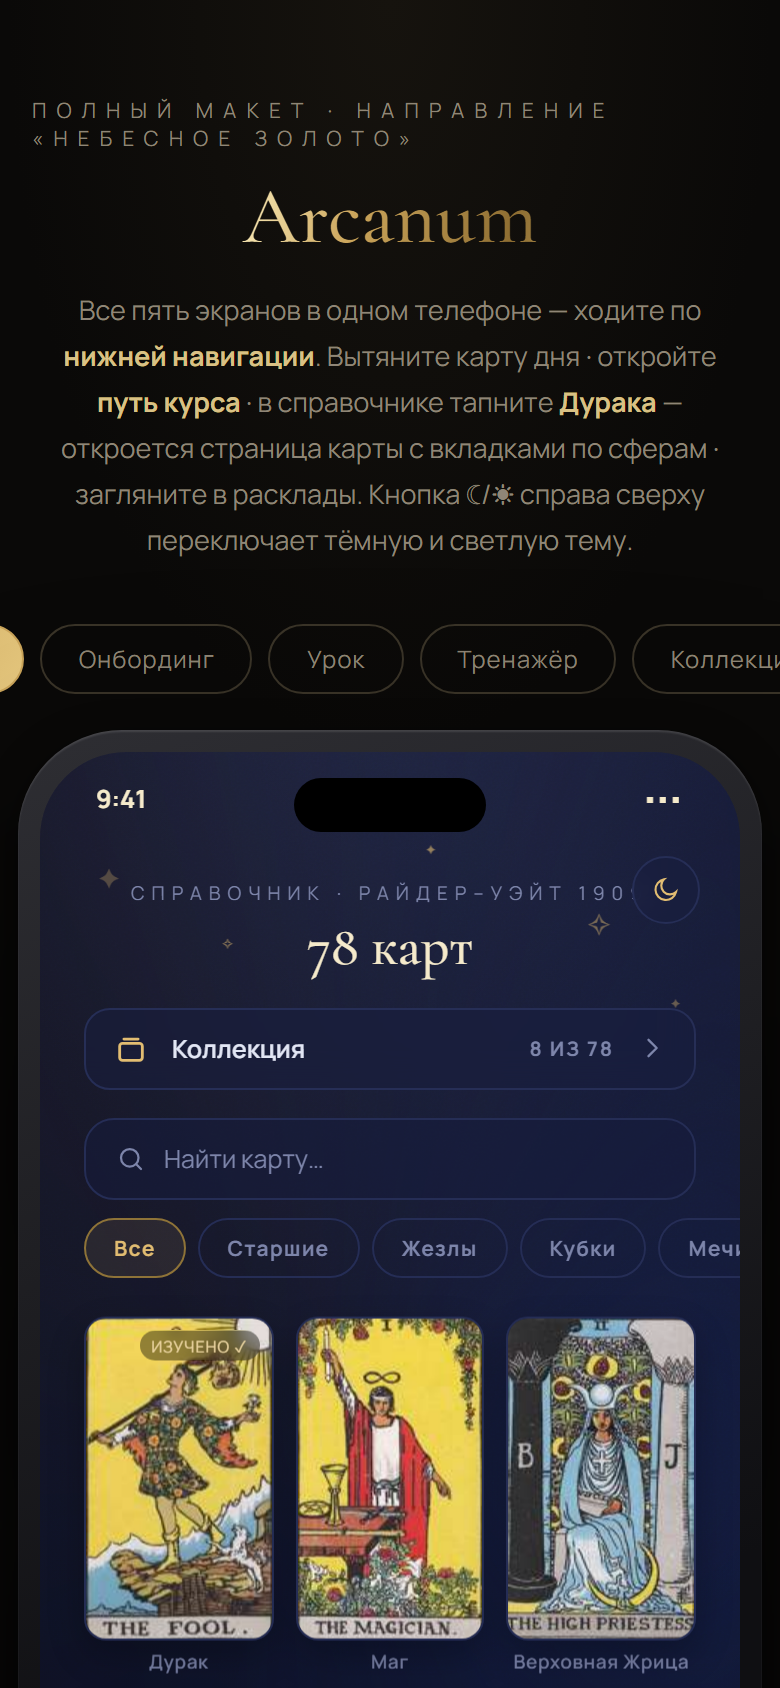
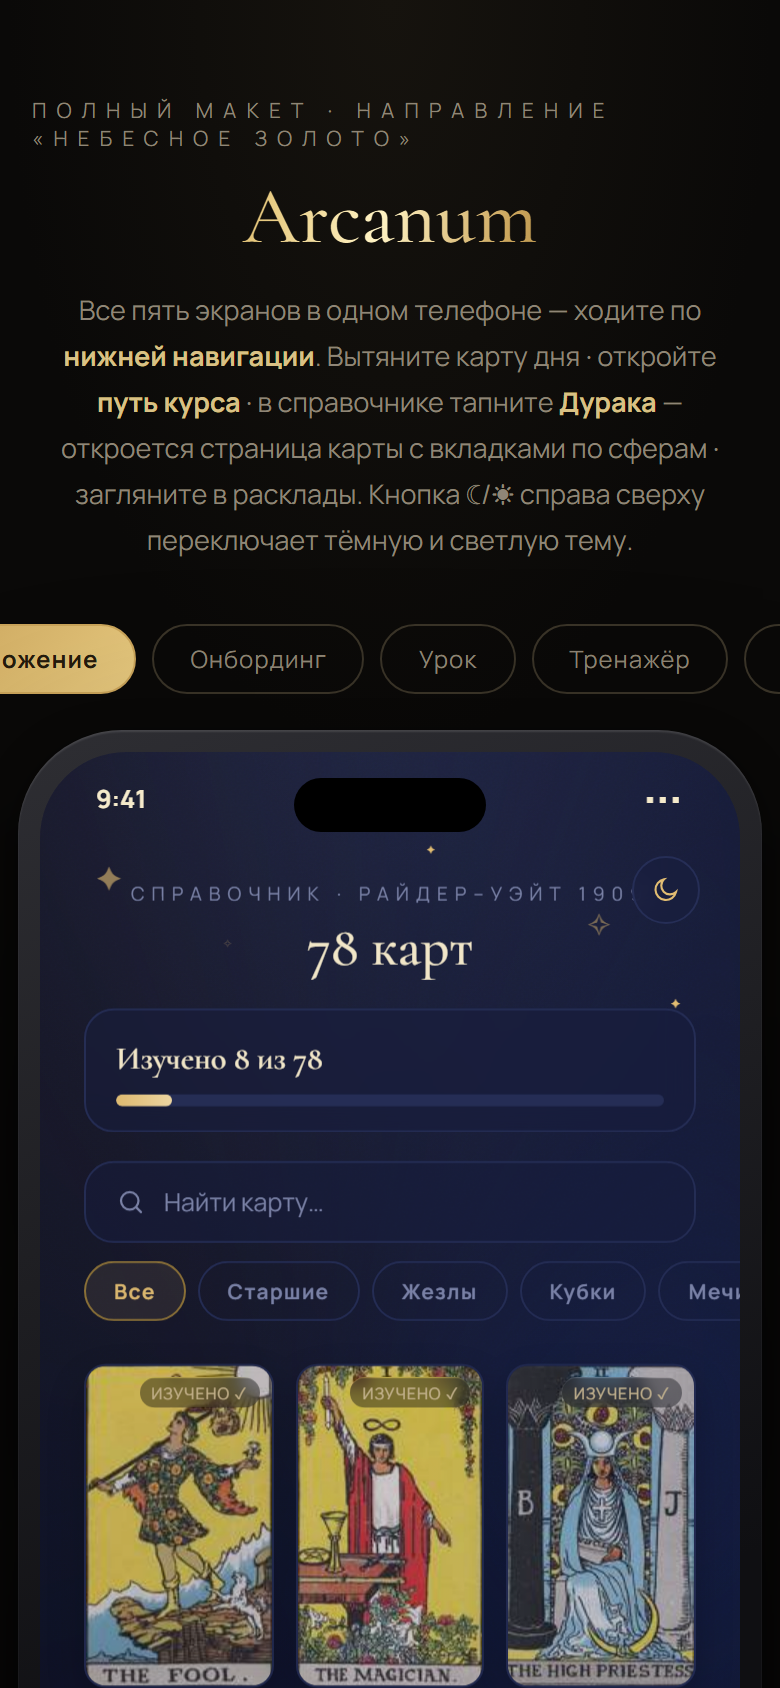
docs: отчёт веб-проверки 46б и скриншоты (spec 46б)

diff --git a/docs/specs/46-collection.md b/docs/specs/46-collection.md
@@ -521,3 +521,159 @@ CLAUDE.md — при закрытии.
 5. Прокрутить вниз и свистнуть вверх — компактная панель поиска с чипами (семь, лента
    прокручивается до «Изучено»).
 6. Страница карты из справочника — «назад · Карты», как раньше; расклады — рубашки как раньше.
+
+## Отчёт веб-проверки 46б (19.08)
+
+Playwright headless, chromium, viewport 390×844 (dpr 2), dev-сервер `http://localhost:8081`
+(уже запущенный, ветка `feat/46-collection`, HEAD `453dd55`). Скрипт —
+`scratchpad/webcheck-46b.js` (рядом с `webcheck-46.js` первой редакции), написан заново по
+приёмам предыдущего: сид `goto → evaluate(localStorage 'arcanum-app') → reload`, три состояния
+(`empty`, `m2` — m2l1–m2l4, `m4` — +m4l1), листовые `div` для поиска текста, `.last()` для
+таба «Карты» (под экраном остаётся смонтированный таб-навигатор — прецедент задачи 39),
+`click({force:true})` (карта дня и герои качаются бесконечно, обычный `.click()` ждёт
+неподвижности и падает по таймауту). Тексты-признаки взяты построчным чтением `src/lib/i18n.ts`
+и `src/lib/cardSearch.ts` (`CARD_FILTERS`), не из памяти.
+
+### Красный / зелёный прогон (правило проекта)
+
+Временная поломка `src/components/CardCell.tsx`: `DIM_OPACITY = 1` вместо `0.55` (`git diff`
+проверен точечно, только эта строка). Прогонялись именно те два узла, что проверяют опасити —
+изолированным скриптом (полный `webcheck-46b.js` пишет скриншоты, гонять его на сломанном коде
+поверх уже собранных зелёных кадров не нужно):
+
+```
+[СЛОМАНО] «Дурак» при 0 изученных, ожидание 0.55: 1  FAIL (красный прогон корректен)
+[СЛОМАНО] «Туз Жезлов» неизучен, ожидание 0.55: 1    FAIL (красный прогон корректен)
+[СЛОМАНО] «Дурак» изучен, ожидание 1 (не должна упасть): 1  PASS (ожидаемо)
+```
+
+Обе проверки на 0.55 красные ровно там, где обязаны быть; проверка на «изучена → opacity 1»
+осталась зелёной, как и должна (поломка не трогает изученные карты) — сценарий ловит именно
+свою цель, а не разваливается целиком. Файл возвращён `git checkout -- src/components/CardCell.tsx`,
+`git status --short src/ app/` пуст. Полный прогон после отката — 37/37 (таблица ниже), скриншоты
+пересобраны на зелёном коде.
+
+### Таблица проверок (37/37 ✓)
+
+| № | Проверка | Ожидание | Факт | ✓/✗ |
+|---|---|---|---|---|
+| 1 | Панель при нуле, dark/light | «Изучено 0 из 78» | найдено 1 раз в обеих темах | ✓ |
+| 2 | Полоса при нуле, dark/light | ratio < 0.01 | 0 в обеих темах | ✓ |
+| 3 | «Дурак» приглушён при нуле, dark/light | opacity 0.55 | 0.55 в обеих темах | ✓ |
+| 4 | Бейджей нет при нуле, dark/light | 0 | 0 в обеих темах | ✓ |
+| 5 | Чип «Изучено» при нуле → подсказка, dark/light | `cards.learnedEmpty` | найдена в обеих темах | ✓ |
+| 6 | Панель, m2, dark/light | «Изучено 8 из 78» | найдено | ✓ |
+| 7 | Полоса, m2, dark/light | ratio ≈ 8/78 = 0.1026, допуск ±0.01 | 0.0982–0.0989 | ✓ |
+| 8 | «Дурак» изучен, m2, dark/light | opacity 1 | 1 в обеих темах | ✓ |
+| 9 | «Туз Жезлов» не изучен, m2, dark/light | opacity 0.55 | 0.55 в обеих темах | ✓ |
+| 10 | Чип «Старшие», m2, dark/light | «Старшие · изучено 8 из 22» | найдено | ✓ |
+| 11 | Полоса чипа «Старшие», dark/light | ratio ≈ 8/22 = 0.3636, допуск ±0.02 | 0.3636 в обеих темах | ✓ |
+| 12 | Чип «Изучено», m2, dark/light | панель «Изучено 8 из 78» держится | найдено | ✓ |
+| 13 | Чип «Изучено», m2, dark/light | ровно 8 бейджей «ИЗУЧЕНО ✓» | 8 в обеих темах | ✓ |
+| 14 | Чип «Жезлы», m4 (dark) | «Жезлы · изучено 5 из 14» | найдено | ✓ |
+| 15 | Полоса чипа «Жезлы», m4 | ratio ≈ 5/14 = 0.3571, допуск ±0.02 | 0.3571 | ✓ |
+| 16 | Чип «Изучено», m4 | панель «Изучено 13 из 78» | найдено | ✓ |
+| 17 | Чип «Изучено», m4 | ровно 13 бейджей | 13 | ✓ |
+| 18 | Поиск сбрасывает чип на «Все» | панель возвращается к «Изучено 13 из 78» (не «Жезлы · …») | найдено | ✓ |
+| 19 | Чип «Все» активен цветом после сброса | `color === accent` темы (не `muted`) | `rgb(226,189,114)` (dark) | ✓ |
+| 20 | Клик «Дурак» → страница карты | «ОБЩЕЕ ЗНАЧЕНИЕ» на экране | найдено | ✓ |
+| 21 | Возврат на «Карты» | панель «Изучено 8 из 78» снова | найдено | ✓ |
+| 22 | Маршрут `/collection` | файл `app/collection.tsx` физически отсутствует | подтверждено (`fs.existsSync` → false) | ✓ |
+| 23 | Регрессия расклада «Три карты» | рубашки со звездой ✶ на доске | найдено | ✓ |
+
+(23 смысловые проверки, первые пять групп прогоняются в обеих темах — отсюда 37 фактов в консоли
+скрипта: 5×2 + 2×2 + 2×2 + 2×2 + 2×2 + 6 + 3 = 37.)
+
+⚠ Проверка 20 сначала падала: ключ `card.general` («Общее значение») используется как заголовок
+блока и в разметке приведён через `.toUpperCase()` (не CSS `text-transform`, а сам код) —
+`textContent` реально равен «ОБЩЕЕ ЗНАЧЕНИЕ», а не «Общее значение». Проверено чтением DOM
+(`textContent`, не `innerText`: у последнего браузер сам применяет `text-transform`, и разница
+между этими двумя источниками edit ложный зелёный дал бы одинаково, а ложный красный увёл бы
+не в ту сторону). Прогон покраснел один раз до фикса — по правилу проекта это ожидаемо и не
+задокументировано отдельным красным прогоном, поскольку ловил ошибку СКРИПТА, а не кода.
+
+⚠ Проверка 19 (цвет активного чипа) добавлена, чтобы независимо подтвердить возврат фильтра
+на «Все» после ввода в поиск: `Filters` смонтирован в приложении ДВАЖДЫ одновременно (шапка
+в потоке списка + парящая scroll-aware панель, комментарий в `cards.tsx`: «Живут в двух местах
+сразу»), поэтому одного текстового совпадения панели недостаточно как позитивного признака —
+цвет `t.accent` активного чипа (`rgb(226,189,114)` dark / `rgb(168,128,46)` light) даёт второй,
+независимый сигнал того же факта. Оба экземпляра чипов и полей идут в DOM по одному правилу:
+контент `AnimatedList` (шапка) в JSX предшествует парящей `Animated.View`-панели, поэтому
+`.first()` стабильно берёт видимую при `scrollY=0` копию — свойство проверено на всех клика́х
+скрипта, ни один не попал по невидимому дублю.
+
+### Визуальная сверка (6а, чек-лист `ui-verification.md`)
+
+Обе пары — «приложение = макет» и «макет = спека» (правило 6а-0). Мокап уже дорисован под
+решения 46б (проверено чтением `design-reference.html` ДО прогона, не по памяти): `#v-cards`
+несёт `.colprog` с «Изучено 8 из 78» и семь чипов, включая «Изучено» последним
+(`grep 'id="v-cards"'`), `.gc img.dim{opacity:.55}` — то же число, что `DIM_OPACITY` в коде.
+
+| Пункт чек-листа | Факт |
+|---|---|
+| Композиция | панель прогресса → поиск → чипы → сетка, тот же порядок, что в `v-cards`; строка-вход и строки мастей первой редакции нигде не остались |
+| Шрифт Cormorant у «78 карт» и «Изучено N из M» | подтверждено визуально (`mockup-cards-{dark,light}.png` vs `cards-progress-{dark,light}.png`) — оба засечками, размер и стиль совпадают |
+| Золото полосы прогресса | заливка `accent`-градиентом слева, дорожка `t.line`; совпадает с макетом в обеих темах |
+| Приглушение неизученных | `.55` в коде = `.55` в CSS макета (`.gc img.dim`); на скриншотах разница тонкая на ярком art деке — визуально её легко принять за особенность самой иллюстрации, поэтому решающий довод — измеренная `getComputedStyle`, не взгляд на кадр (см. проверки 3/9) |
+| Бейдж «ИЗУЧЕНО ✓» | только у изученных, тот же `CornerBadge`, что был в задаче 08/39 — расхождений нет |
+| Седьмой чип «Изучено» | на своём месте последним, активный — золотая рамка и текст `accent`, как остальные чипы в активном состоянии |
+| Отступы 24 (поля экрана) | сохранены и у панели, и у чипов (лента чипов — от края до края, задача 19, панель и поиск — в паддинге) |
+| Обе темы отдельно | проверены (`*-light.png`): фон кремовый, панель и чипы читаются, полоса прогресса видна |
+
+Новых (незадокументированных в спеке) расхождений с макетом не найдено — единственные два
+(глиф отсутствует по построению, поскольку макет уже не рисует альбом отдельно; grayscale
+закрытой ячейки был расхождением ПЕРВОЙ редакции и снят вместе с самим понятием «закрытая
+ячейка» в 46б) сняты самой задачей, а не оставлены проверкой.
+
+### Консоль браузера
+
+- Приложение (все сценарии — сиды, клики, чипы, поиск, навигация, расклад): **0** ошибок
+  (`console.error`). Предупреждение `props.pointerEvents is deprecated` не встретилось в этом
+  прогоне ни разу (в отличие от отчёта первой редакции) — оно печатается `warnOnce`, то есть
+  один раз за загрузку страницы, и в это окно не попало ни одного из перезагруженных состояний;
+  не свидетельство того, что предупреждение исчезло из кода (стек ведёт в
+  `@react-navigation/elements`/`react-native-screens`, не в код задачи, задокументировано в
+  задаче 39).
+- Мокап (`design-reference.html`, статический файл вне приложения): **3** ошибки
+  `Failed to load resource: net::ERR_INVALID_URL` — проверено ИЗОЛИРОВАННО: они воспроизводятся
+  при простом открытии файла без единого клика и без вызова `show('v-cards')`, то есть не связаны
+  ни с прогоном скрипта, ни с правками 46б в самом макете. Не относятся к коду приложения —
+  зафиксированы как известное свойство файла-макета, чинить вне периметра задачи 46б.
+
+### Скриншоты
+
+`docs/screenshots/46/` (старые кадры первой редакции удалены — `git rm`, список ниже):
+- `cards-progress-empty-dark.png`, `cards-progress-empty-light.png` — панель «Изучено 0 из 78»,
+  вся сетка приглушена, бейджей нет
+- `cards-learned-empty-dark.png` — чип «Изучено» при нуле: подсказка `cards.learnedEmpty`
+- `cards-progress-dark.png`, `cards-progress-light.png` — состояние макета (8 из 78, 8 карт
+  в полный цвет с бейджем, остальные приглушены)
+- `cards-learned-filter-dark.png` — чип «Изучено» (m2): восемь изученных карт, без приглушённых
+- `spread-starback-after-46b-dark.png` — расклад «Три карты» после правок 46б (регрессия `StarBack`)
+- `mockup-cards-dark.png` (обновлён поверх кадра первой редакции — тот же файл, то же место
+  в макете, содержимое актуализировано), `mockup-cards-light.png` — эталонные кадры `v-cards`
+
+Удалены (`git rm`, не соответствуют текущему приложению — экран `/collection` физически убран):
+`collection-empty-{dark,light}.png`, `collection-m2-{dark,light}.png`, `collection-m4-dark.png`,
+`card-from-collection-dark.png`, `cards-entry-{dark,light}.png`, `mockup-collection-{dark,light}.png`,
+`spread-starback-after-dark.png` (заменён на `spread-starback-after-46b-dark.png` — та же
+регрессионная проверка, актуальное имя).
+
+### Число тестов и типы
+
+```
+Test Suites: 36 passed, 36 total
+Tests:       1307 passed, 1307 total
+```
+(было 1303 в 36 сьютах на момент финального ревью первой редакции 46 — прирост четыре теста
+в уже существующих сьютах `cardSearch.test.ts`/`collection.test.ts`: фильтр «Изучено» с/без
+множества и в сочетании с запросом, `filterProgress` для `all`/`learned`/группы взамен
+удалённых тестов `sectionMode`). `npx tsc --noEmit` — чисто, без вывода.
+
+### Итог
+
+Все 37 проверок скрипта (23 смысловые, часть — в обеих темах) — ✓. Красный прогон подтверждён
+(`DIM_OPACITY=1` роняет ровно те две проверки, что и должен, не задевая соседние). Визуальная
+сверка (6а) и прокликивание (6б) пройдены, консоль приложения чистая, новых расхождений
+с макетом не найдено. `npm test` — 1307/1307, `tsc` чистый. Готово к лайв-проверке Артёма
+на iPhone (сценарий выше).
